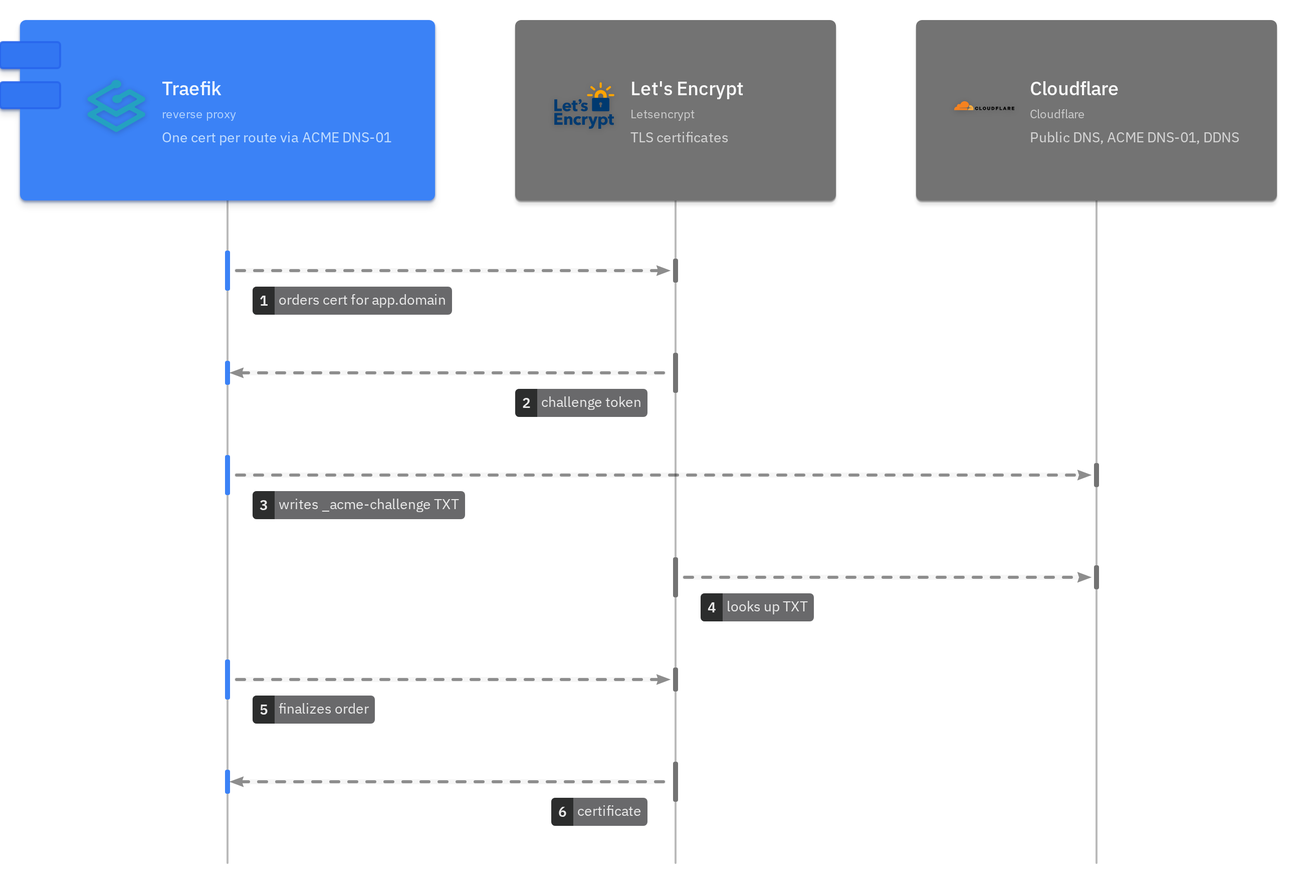
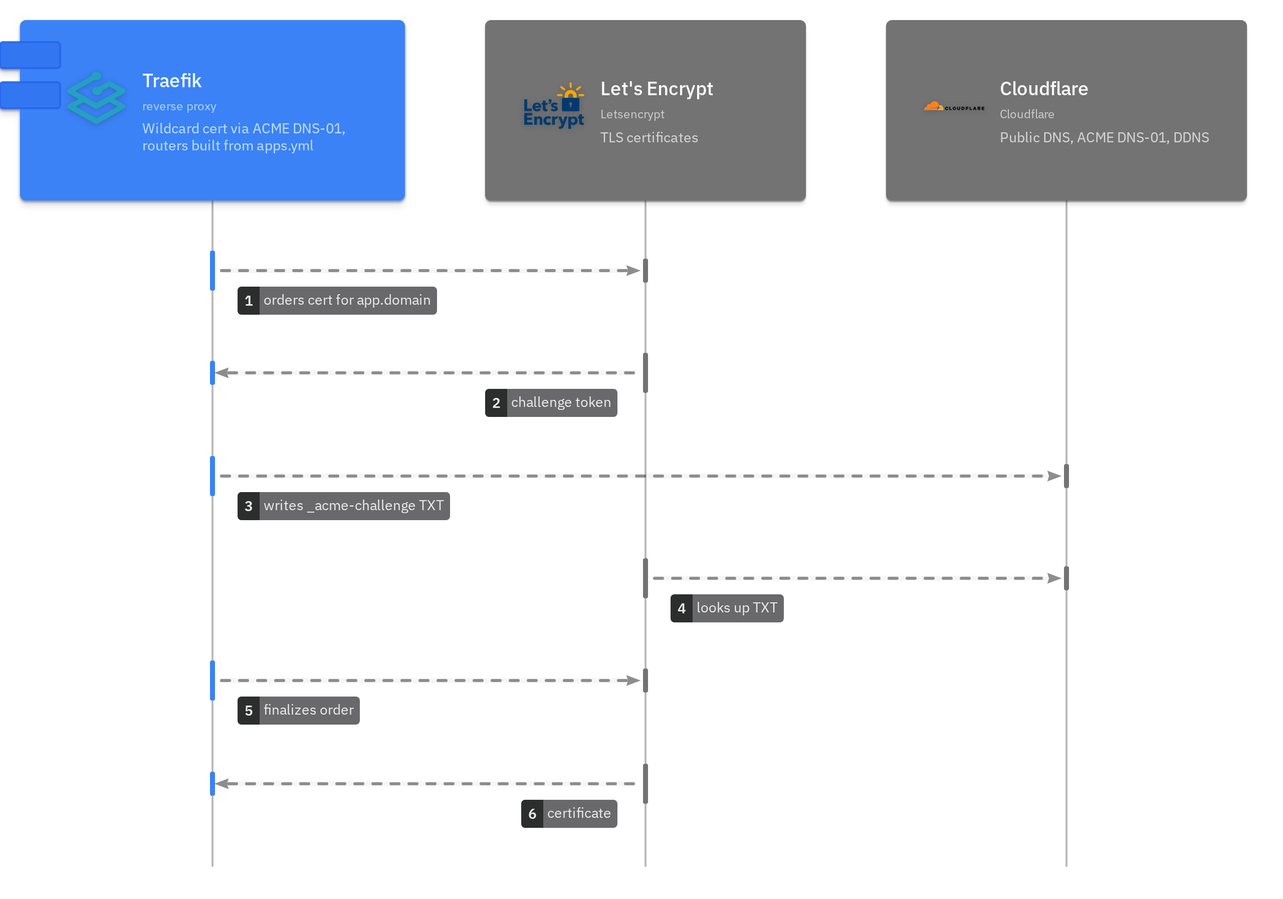
edge cutover: docs, c4, homepage, adr 0010 generalized, adr 0032 accepted

diff --git a/docs/adr/0032-edge-vm-traefik-adguard-on-nixos.md b/docs/adr/0032-edge-vm-traefik-adguard-on-nixos.md
@@ -1,12 +1,12 @@
 # 32. Edge VM: Traefik and AdGuard Home on NixOS, routes from the apps map
 
-Status: Proposed
+Status: Accepted
 
 ## Context
 
-- Traefik runs as a container on pod-1, Pi-hole as a container on pod-2 behind `dns_ip` ([0010](0010-pihole-on-a-service-ip.md))
-- Both Docker VMs get rebuilt as Podman hosts, so ingress and LAN DNS would go down with each rebuild
-- Traefik's routers are written by hand in `apps/proxy/traefik/dynamic/remote_services.yml` next to the `routes:` in `apps.yml`. `scripts/check_wiring.py` only finds a mismatch after the fact
+- Traefik ran as a container on pod-1, Pi-hole as a container on pod-2 behind `dns_ip` ([0010](0010-lan-dns-on-a-service-ip.md))
+- Both Docker VMs were to be rebuilt as Podman hosts, so ingress and LAN DNS would have gone down with each rebuild
+- Traefik's routers were written by hand in `apps/proxy/traefik/dynamic/remote_services.yml` next to the `routes:` in `apps.yml`. `scripts/check_wiring.py` only found a mismatch after the fact
 - pve-1 and pve-2 carry the vital services ([0030](0030-haos-vm-on-pve-3.md)), pve-1 has room for a small VM since HA moved to pve-3
 - The NetBird VM already shows the NixOS pattern: flake, nixos-anywhere, autoUpgrade, facts from group_vars ([0008](0008-nixos-for-the-dmz-box.md))
 
@@ -24,7 +24,7 @@ The VM:
 - `edge`, VM 200 on pve-1, `edge_ip` (`192.168.178.200`), 1 core, 1.5 GB (the upgrade builds on the box), 16 GB disk (`tofu/vms.tf`, `tofu/locals.tf`)
 - NixOS, `nixosConfigurations.edge` in the same flake as the NetBird VM, host modules in `nixos/edge/`
 - Hardening, AIDE, time, logging and the disk layout are shared with the NetBird VM from `nixos/base/`
-- `dns_ip` (`.53`) becomes a second address on edge. `dns_ip_host` in `network.yml` says who holds it, edge only adds it once it says `edge`, after pod-2 dropped it. Clients and the router keep `.53` ([0010](0010-pihole-on-a-service-ip.md) holds)
+- `dns_ip` (`.53`) is a second address on edge. `dns_ip_host` in `network.yml` says who holds it, edge only adds it while it says `edge`. Clients and the router keep `.53` ([0010](0010-lan-dns-on-a-service-ip.md) holds)
 
 Traefik (`nixos/edge/traefik.nix`):
 - One router and service per entry in `apps.<name>.routes` and per `infra_routes` entry with a `target`, read through `facts.nix` from `apps.yml` (yq at build time)
@@ -42,6 +42,9 @@ AdGuard Home (`nixos/edge/adguard.nix`):
 - UI on localhost only, served as `dns.<domain>` behind Authentik, no AdGuard login
 - Break-glass when Authentik is down: `ssh -L 3000:127.0.0.1:3000 <admin_user>@<edge_ip>`, then `http://localhost:3000`. The SSH key is the lock, no AdGuard user (its hash would land in the world-readable nix store)
 
+Apps calling Authentik:
+- The pod VMs resolve through the router, which doesn't know the LAN names. Apps that call `auth.<domain>` themselves (OIDC discovery, tokens) pin it to edge: `AddHost=` in the Podman units, `extra_hosts` in the compose files (Vaultwarden, Gitea), both from `app_sources.edge`
+
 Updates:
 - autoUpgrade at 04:00 (up to 20 minutes random delay), reboots only between 04:00 and 04:45, right after the NetBird VM (03:00 to 04:00), so the two never reboot at once. Both windows in `schedules.yml`
 - `nixos/update.sh edge` and `nixos/aide-accept.sh edge` from the controller
@@ -53,6 +56,7 @@ Updates:
 - Easier: a new route is an `apps.yml` entry plus `nixos-rebuild`, there is no router file to keep in sync
 - Easier: ingress and DNS survive the Docker VM rebuilds, they are on their own VM
 - Easier: one wildcard certificate instead of one per router, fewer Let's Encrypt orders
+- Easier: a second Traefik can run side by side for a test, `ingress_extra_sources` (`app_settings.yml`) lets it through the backend firewalls
 
 - Harder: edge is a single point for LAN DNS and every route, a broken switch takes both down (rollback is the previous generation)
 - Harder: autoUpgrade builds on a 1.5 GB VM, zram is the only cushion
@@ -61,8 +65,6 @@ Updates:
 - Accepted: changes made in the AdGuard UI are gone at the next restart, the UI is for looking
 - Accepted: a wildcard certificate covers every name under the domain, a stolen key would too
 
-- Before the cutover both Traefiks run in parallel: `ingress_extra_sources` (`app_settings.yml`) lets edge through the backend firewalls as well, so every route can be tested on edge while the LAN still uses pod-1
-- Later: at the cutover, `app_sources.edge` and the callers of the pod-1 ports move to `edge_ip`, `ingress_extra_sources` goes back to `[]`, `dns_ip_host` flips to `edge`, Traefik on pod-1 and Pi-hole on pod-2 stop
-- Later: rollback for a week after the cutover: Traefik on pod-1 and Pi-hole on pod-2 are only stopped, not removed. If edge fails, starting them again and `dns_ip_host` back to `pod-2` restores ingress and DNS within minutes
+- Later: Traefik on pod-1 and Pi-hole on pod-2 stay stopped as the rollback until 2026-11-17, then they are removed. Until then `dns_ip_host` back to `pod-2`, `app_sources.edge` back to `pod1_ip` and both started again restores the old ingress and DNS within minutes
 
-- Related: [0003](0003-netbird-instead-of-port-forwards.md) (NetBird), [0005](0005-prevent-destroy-on-stateful-vms.md) (prevent_destroy), [0007](0007-group-vars-single-source-of-truth.md) (shared vars), [0008](0008-nixos-for-the-dmz-box.md) (NixOS), [0009](0009-aide-with-manual-accept.md) (AIDE), [0010](0010-pihole-on-a-service-ip.md) (service IP), [0014](0014-authentik-as-idp.md) (forward-auth), [0015](0015-tls-via-dns-01.md) (DNS-01), [0022](0022-central-logging-relp.md) (logging), [0027](0027-gatus-generated-from-apps-map.md) (apps map)
+- Related: [0003](0003-netbird-instead-of-port-forwards.md) (NetBird), [0005](0005-prevent-destroy-on-stateful-vms.md) (prevent_destroy), [0007](0007-group-vars-single-source-of-truth.md) (shared vars), [0008](0008-nixos-for-the-dmz-box.md) (NixOS), [0009](0009-aide-with-manual-accept.md) (AIDE), [0010](0010-lan-dns-on-a-service-ip.md) (service IP), [0014](0014-authentik-as-idp.md) (forward-auth), [0015](0015-tls-via-dns-01.md) (DNS-01), [0022](0022-central-logging-relp.md) (logging), [0027](0027-gatus-generated-from-apps-map.md) (apps map)

diff --git a/docs/architecture.md b/docs/architecture.md
@@ -57,15 +57,16 @@ Ansible also sets up a couple of services on the hosts themselves:
 
 ## Compute
 
-Each node runs one Docker VM, grouped by what the apps need.
+Each node runs one pod VM, grouped by what the apps need. Ingress and LAN DNS run on their own NixOS VM, edge.
 
 | VM | Node | Purpose | Apps |
 |---|---|---|---|
-| pod-1 (VM 201) | pve-1 | Core | Traefik, Authentik, Vaultwarden, Gitea, Homepage, SearXNG, pdfcraft, DDNS |
-| pod-2 (VM 202) | pve-2 | Monitoring and DNS | Pi-hole, dns-relay, Prometheus, Grafana, Gatus, nginx |
+| pod-1 (VM 201) | pve-1 | Core | Authentik, Vaultwarden, Gitea, Homepage, SearXNG, pdfcraft, DDNS |
+| pod-2 (VM 202) | pve-2 | Monitoring | dns-relay, Prometheus, Grafana, Gatus, nginx, DDNS |
+| edge (VM 200) | pve-1 | Ingress and DNS (NixOS) | Traefik, AdGuard Home |
 | pod-3 (VM 203) | pve-3 | Private cloud | Nextcloud, Immich, Jellyfin, Paperless |
 
-- All three also run Diun, docker-socket-proxy, the PBS client and AIDE
+- pod-1 and pod-2 also run Diun and docker-socket-proxy (until they are podman-only), all three the PBS client and AIDE
 - Home Assistant runs as HAOS, an appliance VM on pve-3 (VM 210, `haos_ip`): it updates and configures itself inside, Ansible never logs in. It's off whenever pve-3 is
 - pod-3 gets to run the heavy services, because pve-3 has the most RAM
 - The full per-node picture is in the deployment views under [Nodes](#nodes)
@@ -116,17 +117,17 @@ The sharing:
 
 ## DNS
 
-All name resolution goes through Pi-hole on a fixed service IP.
+All name resolution goes through AdGuard Home on edge, on a fixed service IP.
 
 ![](img/name-resolution.png)
 
 - The router hands out `.53` as the only IPv4 DNS server
-- `.53` is a second IP on pod-2 (`dns-ip.service`), not the VM's own address
-- Pi-hole blocks ads and answers the internal names (split horizon)
-- One wildcard record points every app name at Traefik (`.201`), so new apps need no DNS record
+- `.53` is a second IP on edge (`dns_ip_host: edge`, set by networkd), not the VM's own address
+- AdGuard Home blocks ads (AdGuard DNS filter) and answers the internal names (split horizon), upstream over DoT/DoH
+- Every routed name gets a rewrite to Traefik on edge (`.200`), generated from `apps.yml`, so a new app needs no DNS record of its own. Names that aren't routed go to public DNS
 - The one exception is the NetBird hostname, which points straight at `.250`
 - Remote clients get the same answers through NetBird's nameserver group: it points at `dns-relay` on pod-2's overlay IP (port 1053), CoreDNS that forwards to the service IP
-- If DNS moves to another VM later, only the service IP moves and no client changes ([ADR 0010](adr/0010-pihole-on-a-service-ip.md))
+- When DNS moves to another VM, only the service IP moves and no client changes ([ADR 0010](adr/0010-lan-dns-on-a-service-ip.md), [ADR 0032](adr/0032-edge-vm-traefik-adguard-on-nixos.md))
 
 ## Request path
 
@@ -135,16 +136,15 @@ How a request from a browser reaches an app.
 ![](img/request.png)
 ![](img/login.png)
 
-1. The client asks Pi-hole for the app's name and gets Traefik's IP
-2. Traefik (on pod-1) picks the app by its hostname (`Host()` rule)
+1. The client asks AdGuard Home for the app's name and gets Traefik's IP
+2. Traefik (on edge) picks the app by its hostname (`Host()` rule)
 3. If the app needs a login, Authentik checks it first, either through OIDC or forward-auth
 4. Traefik passes the request on to the app
 
 - Plain HTTP on port 80 only redirects to HTTPS on 443
-- Apps on pod-1 are found through their container labels. They also publish their port from `apps.yml`, filtered like the others, so the edge VM can route them directly
-- Apps on pod-2/3, Home Assistant on the HAOS VM and the PVE/PBS web UIs are listed in a file instead (`apps/proxy/traefik/dynamic/remote_services.yml`, 16 routes)
+- Every router comes from `apps.yml` (`routes` of each app plus `infra_routes`), built into Traefik's dynamic config on edge (`nixos/edge/traefik.nix`). There is no hand-written router file
 - Published app ports go through the `DOCKER-USER` firewall chain, which only lets a few callers in (Gitea's ssh port: the LAN):
-  - Traefik and Homepage from pod-1
+  - Traefik from edge, Homepage over pod-1's local bridge
   - Prometheus, Grafana and Gatus from pod-2
 
 ## Certificates
@@ -154,7 +154,7 @@ All certificates come from Let's Encrypt, proven through DNS instead of an open 
 ![](img/cert-renewal.png)
 
 - Let's Encrypt checks a DNS record at Cloudflare (DNS-01), so port 80 doesn't need to be reachable
-- Traefik gets one certificate per router for the LAN apps
+- Traefik on edge holds one wildcard certificate (`*.<domain>`) for every LAN app
 - The NetBird VM gets its own certificate the same way (nginx + ACME)
 - cloudflare-ddns keeps the public DNS record pointed at the current WAN IP
 
@@ -188,7 +188,7 @@ The control plane:
 
 The routing:
 - pod-2 is the routing peer (`netbird_agent` role) and forwards traffic into the LAN
-- NetBird's DNS management is off for pod-2's group, so NetBird never takes port 53 on its routing peer ([ADR 0003](adr/0003-netbird-instead-of-port-forwards.md), [ADR 0010](adr/0010-pihole-on-a-service-ip.md))
+- NetBird's DNS management is off for pod-2's group, so NetBird never takes port 53 on its routing peer ([ADR 0003](adr/0003-netbird-instead-of-port-forwards.md), [ADR 0010](adr/0010-lan-dns-on-a-service-ip.md))
 - Peers talk to each other directly over WireGuard, the TURN relay is only a fallback
 
 The fallback:

diff --git a/README.md b/README.md
@@ -29,10 +29,10 @@
 | Guest | ID | Node | CPU | RAM (balloon floor) | Disk | IP |
 |---|---|---|---|---|---|---|
 | pod-1 | VM 201 | pve-1 | 4 | 4 GB (3 GB) | 32 GB | .201 |
-| pod-2 | VM 202 | pve-2 | 4 | 4 GB (2 GB) | 32 GB | .202 (+ DNS service IP .53) |
-| pod-3 | VM 203 | pve-3 | 4 | 12 GB (8 GB) | 32 GB | .203 |
+| pod-2 | VM 202 | pve-2 | 4 | 4 GB (2 GB) | 32 GB | .202 |
+| pod-3 | VM 203 | pve-3 | 4 | 12 GB (8 GB) | 64 GB | .203 |
 | netbird | VM 250 | pve-2 | 2 | 2 GB (1 GB) | 20 GB | .250 |
-| edge | VM 200 | pve-1 | 1 | 1.5 GB (1.5 GB) | 16 GB | .200 (takes the DNS service IP .53 at the cutover) |
+| edge | VM 200 | pve-1 | 1 | 1.5 GB (1.5 GB) | 16 GB | .200 (+ DNS service IP .53) |
 | storage | CT 300 | pve-3 | 2 | 1 GB + 512 MB swap | 24 GB | .150 |
 | log | CT 301 | pve-3 | 1 | 512 MB + 256 MB swap | 32 GB | .151 |
 | iot | CT 302 | pve-1 | 1 | 512 MB + 256 MB swap | 8 GB | .152 + IoT `.50.10` on its WiFi card |
@@ -41,15 +41,13 @@
 
 ## Stack
 
-- Proxmox (3 nodes) · OpenTofu (bpg/proxmox) · Ansible · Docker Compose · NixOS (NetBird VM, edge) · PBS · NetBird · Traefik · Pi-hole · Authentik
+- Proxmox (3 nodes) · OpenTofu (bpg/proxmox) · Ansible · Docker Compose · NixOS (NetBird VM, edge) · PBS · NetBird · Traefik · AdGuard Home · Authentik
 
 ## What runs
 
 | Group | App | Host | Purpose |
 |---|---|---|---|
-| Ingress | Traefik (`proxy`) | pod-1 | Reverse proxy, TLS via Cloudflare DNS |
-| Ingress | Pi-hole (`dns`) | pod-2 | DNS + ad blocking, split-horizon records |
-| Ingress | Traefik + AdGuard Home | edge (NixOS) | Routers and DNS rewrites built from `apps.yml`, take over from `proxy` + `dns` at the cutover |
+| Ingress | Traefik + AdGuard Home | edge (NixOS) | Reverse proxy (TLS via Cloudflare DNS-01) and LAN DNS + ad blocking, routers and rewrites built from `apps.yml` |
 | Ingress | dns-relay (CoreDNS) | pod-2 | DNS for VPN clients, forwards to the LAN DNS |
 | Ingress | cloudflare-ddns | pod-1, pod-2 | Keeps the public records current, one copy per host |
 | Identity | Authentik | pod-1 | SSO, OIDC + forward-auth |
@@ -140,16 +138,16 @@ justfile         setup · lint · check · deploy · deploy-app · render · c4 
 
 - [docs/adr/](docs/adr/README.md): 32 records
 - 0001 OpenTofu + cloud-init · 0002 generic app role · 0003 NetBird · 0004 mergerfs · 0005 prevent_destroy
-- 0006 `:latest` + Diun · 0007 group_vars as source of truth · 0008 NixOS DMZ · 0009 AIDE · 0010 Pi-hole service IP
+- 0006 `:latest` + Diun · 0007 group_vars as source of truth · 0008 NixOS DMZ · 0009 AIDE · 0010 LAN DNS service IP
 - 0011 Proxmox as hypervisor · 0012 no Kubernetes · 0013 PBS file-level backups · 0014 Authentik · 0015 TLS via DNS-01
 - 0016 Ansible Vault · 0017 SMB to the Docker VMs · 0018 DOCKER-USER filtering · 0019 ntfy alerts · 0020 same checks locally + CI · 0021 Podman quadlets
 - 0022 central logging over RELP · 0023 chrony with NTS · 0024 OS updates through Ansible · 0025 Debian guests until x86-64-v3 · 0026 ufw as the guest firewall · 0027 Gatus from the apps map
-- 0028 IoT gateway LXC · 0029 WiFi card in the gateway · 0030 HAOS VM on pve-3 · 0031 Semaphore on a Pi · 0032 edge VM (proposed)
+- 0028 IoT gateway LXC · 0029 WiFi card in the gateway · 0030 HAOS VM on pve-3 · 0031 Semaphore on a Pi · 0032 edge VM
 
 ## Future plans
 
 - Phase 1: `podman_base` + `podman_app` roles, quadlet conventions (pinned image + auto-update, CIFS automount + `findmnt` start gate), restore rehearsal runbook, CI quadlet dry-run
-- Phase 2: edge = NixOS VM on pve-1 (1.5 GB) running Traefik + AdGuard Home natively, code in `nixos/edge/`; the cutover replaces the Traefik + Pi-hole containers ([ADR 0032](docs/adr/0032-edge-vm-traefik-adguard-on-nixos.md))
+- Phase 2 (done): edge = NixOS VM on pve-1 running Traefik + AdGuard Home, Traefik on pod-1 and Pi-hole on pod-2 are stopped and go after a week of rollback ([ADR 0032](docs/adr/0032-edge-vm-traefik-adguard-on-nixos.md))
 - Phase 3–4: pod-2 / pod-3 rebuilt as Podman hosts, rootless per app, same VMID/IP/MAC; gated by a restore rehearsal
 - Phase 6: pod-1 → Podman (Authentik, SearXNG)
 - Podman auto-update with rollback replaces `:latest` + Diun (ADR 0006)

diff --git a/docs/bootstrap.md b/docs/bootstrap.md
@@ -96,16 +96,25 @@ ansible-playbook playbooks/base.yml              # cron, journald, rsyslog, chro
 ansible-playbook playbooks/deploy-storage.yml -l storage
 ```
 
-## 4. NetBird VM
+## 4. NixOS VMs (netbird, edge)
 
-Installed once with nixos-anywhere, OpenTofu only made the empty VM ([docs/nixos-layout.md](nixos-layout.md), [ADR 0008](adr/0008-nixos-for-the-dmz-box.md)):
+Each is installed once with nixos-anywhere, OpenTofu only made the empty Debian VM ([docs/nixos-layout.md](nixos-layout.md), [ADR 0008](adr/0008-nixos-for-the-dmz-box.md), [ADR 0032](adr/0032-edge-vm-traefik-adguard-on-nixos.md)). `private.yml` is a symlink and nix copies links without their targets, so the system is built locally with `--override-input` first, then installed from the store paths. Otherwise it gets the example values, the example SSH keys included.
 
 ```bash
 cd ~/homelab/nixos
-nix run github:nix-community/nixos-anywhere -- --flake .#netbird root@<netbird_ip>
-./update.sh
+H=edge   # or netbird
+P=$(dirname "$(realpath ../ansible/group_vars/all/private/private.yml)")
+SYS=$(nix build --no-link --print-out-paths --override-input private path:$P .#nixosConfigurations.$H.config.system.build.toplevel)
+DISKO=$(nix build --no-link --print-out-paths --override-input private path:$P .#nixosConfigurations.$H.config.system.build.diskoScript)
+grep -c "$(cut -d' ' -f2 ~/.ssh/id_ed25519.pub)" $SYS/etc/ssh/authorized_keys.d/root   # 1, else the install locks you out
+# secrets as a tree in ram: /var/lib/secrets/<host>/..., /var/lib/secrets/aide/ntfy.env (docs/nixos-layout.md)
+S=$XDG_RUNTIME_DIR/$H-secrets
+nix run github:nix-community/nixos-anywhere -- --store-paths $DISKO $SYS --extra-files $S --chown /var/lib/secrets 0:0 -i ~/.ssh/id_ed25519 --target-host <admin_user>@<host ip>
+rm -rf $S; ssh-keygen -R <host ip>
 cd ../ansible && ansible-playbook playbooks/deploy-netbird-agent.yml   # pod-2 is the routing peer
 ```
+
+- Edge only holds `dns_ip` while `dns_ip_host` in `network.yml` says `edge`. On a fresh lab it does from the start
 
 ## 5. ctl-1 (Semaphore)
 
@@ -128,7 +137,7 @@ cd ~/homelab/ansible
 ansible-playbook playbooks/site.yml
 ```
 
-- `site.yml` holds the order: ingress (Traefik, Pi-hole) and Authentik before the apps that log in through it, storage before the CIFS apps on pod-3, the PBS client last
+- `site.yml` holds the order: Authentik before the apps that log in through it (ingress and DNS are already up on edge), storage before the CIFS apps on pod-3, the PBS client last
 - One app on its own: `deploy-app.yml -e app=<name>` (Podman) or `deploy-<app>.yml` (`runtime: compose`)
 
 ## 7. Restore the data

diff --git a/docs/adr/0010-lan-dns-on-a-service-ip.md b/docs/adr/0010-lan-dns-on-a-service-ip.md
@@ -1,0 +1,41 @@
+# 10. LAN DNS behind a service IP
+
+Status: Accepted
+
+## Context
+
+- Every LAN client resolves through one DNS server, the router hands it out as the only IPv4 DNS server. So it has to run 24/7
+- Split horizon: the app names point at Traefik, `nb.<domain>` at the NetBird VM
+- The DNS server has moved between hosts before: Pi-hole from pod-1 to pod-2 (NetBird's DNS pushed it off port 53), then AdGuard Home on edge ([0032](0032-edge-vm-traefik-adguard-on-nixos.md))
+- Clients pointed at a host IP, so moving DNS meant reconfiguring the router and every client with a static config
+
+- Alternatives:
+  - Clients on the DNS host's own IP (why not: every move touches the router and every static client)
+  - DNS on the router (why not: no ad blocking, no split-horizon records)
+- Why: the address stays put, the server behind it can move
+
+## Decision
+
+The service IP:
+- Clients use `dns_ip` (`192.168.178.53`), an extra address on the host that runs DNS, the router hands it out as the only IPv4 DNS server
+- `dns_ip_host` in `network.yml` names that host, only that host adds the address. Today edge, through networkd ([0032](0032-edge-vm-traefik-adguard-on-nixos.md))
+- A move: the old host drops the address first, the new one adds it, then a gratuitous ARP (`arping -U`) so the LAN's caches follow at once
+- `deploy-dns.yml` (Pi-hole) refuses to run on a host `dns_ip_host` doesn't name
+
+The server:
+- AdGuard Home on edge, rewrites and blocklist from the flake ([0032](0032-edge-vm-traefik-adguard-on-nixos.md))
+- VPN clients reach it through `dns-relay` on the routing peer, NetBird's nameserver group points there
+
+- Enforced by: `dns_ip` and `dns_ip_host` in group_vars, read by Ansible, OpenTofu and Nix ([0007](0007-group-vars-single-source-of-truth.md))
+
+## Consequences
+
+- Easier: moving DNS, or adding a second resolver, just means moving the address. Clients never change
+
+- Harder: the router needs local DNS set to `.53` and IPv6 RDNSS turned off, or clients go around the LAN DNS over IPv6
+
+- Accepted: one resolver, no HA yet. If edge is down, DNS in the LAN is down, because `.53` is the only DNS server the router hands out
+
+- Other config points at `dns_ip` too: the NixOS VMs' resolvers and their OpenTofu bootstrap
+
+- Related: [0003](0003-netbird-instead-of-port-forwards.md) (NetBird), [0007](0007-group-vars-single-source-of-truth.md) (shared vars), [0032](0032-edge-vm-traefik-adguard-on-nixos.md) (AdGuard Home on edge)

diff --git a/docs/adr/0003-netbird-instead-of-port-forwards.md b/docs/adr/0003-netbird-instead-of-port-forwards.md
@@ -54,10 +54,10 @@ The fallback:
 
 - Harder: NetBird and the router's WireGuard must never run at the same time. Both route the LAN, the routes collide and break NetBird's routing and DNS
 - Harder: the nameserver has to be a peer's overlay IP, not a LAN IP behind a route, or the macOS/iOS resolvers fail
-- Harder: NetBird's DNS and nftables take port `:53` from Pi-hole on a peer. pod-1 is not a peer, and Pi-hole on pod-2 needs NetBird's DNS management turned off for that group ([0010](0010-pihole-on-a-service-ip.md))
+- Harder: NetBird's DNS and nftables take port `:53` from Pi-hole on a peer. pod-1 is not a peer, and Pi-hole on pod-2 needs NetBird's DNS management turned off for that group ([0010](0010-lan-dns-on-a-service-ip.md))
 
 - Accepted: coturn has no `external-ip` because the WAN IP keeps changing, so the TURN relay is unreliable by design. Direct P2P + STUN cover normal use
 - Accepted: user and group sync from the IdP is turned off (Authentik's machine auth answered 405). Users still log in through OIDC
 - Accepted: the server secrets were put on the VM by hand and are not in git. agenix/sops is planned
 
-- Related: [0008](0008-nixos-for-the-dmz-box.md) (NixOS), [0010](0010-pihole-on-a-service-ip.md) (Pi-hole on pod-2)
+- Related: [0008](0008-nixos-for-the-dmz-box.md) (NixOS), [0010](0010-lan-dns-on-a-service-ip.md) (Pi-hole on pod-2)

diff --git a/ansible/roles/netbird_agent/README.md b/ansible/roles/netbird_agent/README.md
@@ -34,13 +34,13 @@
 
 ## Notes
 
-- Pi-hole shares pod-2 with the agent ([ADR 0003](../../../docs/adr/0003-netbird-instead-of-port-forwards.md), [ADR 0010](../../../docs/adr/0010-pihole-on-a-service-ip.md))
-- NetBird's DNS management must be turned off for pod-2's group, or NetBird grabs port 53 there too
+- dns-relay (CoreDNS, port 1053) shares pod-2 with the agent and answers the VPN clients ([ADR 0003](../../../docs/adr/0003-netbird-instead-of-port-forwards.md), [ADR 0010](../../../docs/adr/0010-lan-dns-on-a-service-ip.md))
+- NetBird's DNS management stays off for pod-2's group, so NetBird never takes port 53 on its routing peer
 - Don't run NetBird and the router's WireGuard at the same time. Both route the LAN CIDR, the routes collide and NetBird's routing and DNS break
 - The routing peer must resolve `nb.{{ domain }}` to the NetBird VM (local DNS override)
 
 ## Related
 
 - [ADR 0003: NetBird instead of port forwards](../../../docs/adr/0003-netbird-instead-of-port-forwards.md)
-- [ADR 0010: Pi-hole on a service IP](../../../docs/adr/0010-pihole-on-a-service-ip.md)
+- [ADR 0010: LAN DNS behind a service IP](../../../docs/adr/0010-lan-dns-on-a-service-ip.md)
 - Control plane: `nixos/netbird/` (separate NixOS VM), firewall: `pve_firewall` role

diff --git a/docs/adr/README.md b/docs/adr/README.md
@@ -11,7 +11,7 @@ Format: status, context, decision, consequences.
 - [7. group_vars as the single source of truth](0007-group-vars-single-source-of-truth.md)
 - [8. NixOS for the NetBird VM only](0008-nixos-for-the-dmz-box.md)
 - [9. AIDE with manual accept](0009-aide-with-manual-accept.md)
-- [10. Pi-hole on pod-2 behind a service IP](0010-pihole-on-a-service-ip.md)
+- [10. LAN DNS behind a service IP](0010-lan-dns-on-a-service-ip.md)
 - [11. Proxmox as the hypervisor](0011-proxmox-as-hypervisor.md)
 - [12. No Kubernetes](0012-no-kubernetes.md)
 - [13. PBS file-level backups, VMs are cattle](0013-pbs-file-level-backups.md)
@@ -33,4 +33,4 @@ Format: status, context, decision, consequences.
 - [29. The IoT WiFi card moves into the gateway LXC](0029-wifi-card-in-the-gateway.md)
 - [30. Home Assistant as a HAOS VM on pve-3](0030-haos-vm-on-pve-3.md)
 - [31. Semaphore on a Raspberry Pi as the always-on runner](0031-semaphore-on-a-pi.md)
-- [32. Edge VM: Traefik and AdGuard Home on NixOS, routes from the apps map](0032-edge-vm-traefik-adguard-on-nixos.md) (proposed)
+- [32. Edge VM: Traefik and AdGuard Home on NixOS, routes from the apps map](0032-edge-vm-traefik-adguard-on-nixos.md)

diff --git a/docs/adr/0015-tls-via-dns-01.md b/docs/adr/0015-tls-via-dns-01.md
@@ -45,4 +45,4 @@ Public DNS:
 - Accepted: whoever gets root on pod-1 or the NetBird VM can edit the whole zone
 - Accepted: every certificate lands in the public certificate transparency logs, so the app hostnames are public (the apps themselves aren't)
 
-- Related: [0003](0003-netbird-instead-of-port-forwards.md) (NetBird), [0010](0010-pihole-on-a-service-ip.md) (split-horizon DNS), [0014](0014-authentik-as-idp.md) (SSO), [0032](0032-edge-vm-traefik-adguard-on-nixos.md) (wildcard on edge)
+- Related: [0003](0003-netbird-instead-of-port-forwards.md) (NetBird), [0010](0010-lan-dns-on-a-service-ip.md) (split-horizon DNS), [0014](0014-authentik-as-idp.md) (SSO), [0032](0032-edge-vm-traefik-adguard-on-nixos.md) (wildcard on edge)

diff --git a/ansible/roles/pbs/README.md b/ansible/roles/pbs/README.md
@@ -41,7 +41,7 @@
 | Host | Databases | Left out |
 |---|---|---|
 | pod-1 | Authentik (Postgres), Gitea, Vaultwarden (SQLite) | – |
-| pod-2 | Grafana, Gatus (SQLite) | Pi-hole query log, Prometheus TSDB (bulky, old metrics aren't worth keeping) |
+| pod-2 | Grafana, Gatus (SQLite) | Prometheus TSDB (bulky, old metrics aren't worth keeping) |
 | pod-3 | Nextcloud, Immich, Paperless (Postgres), Jellyfin (SQLite) | Jellyfin cache and transcodes |
 
 - The bulk data on the CIFS pool (photos, media, documents, files) isn't in here
